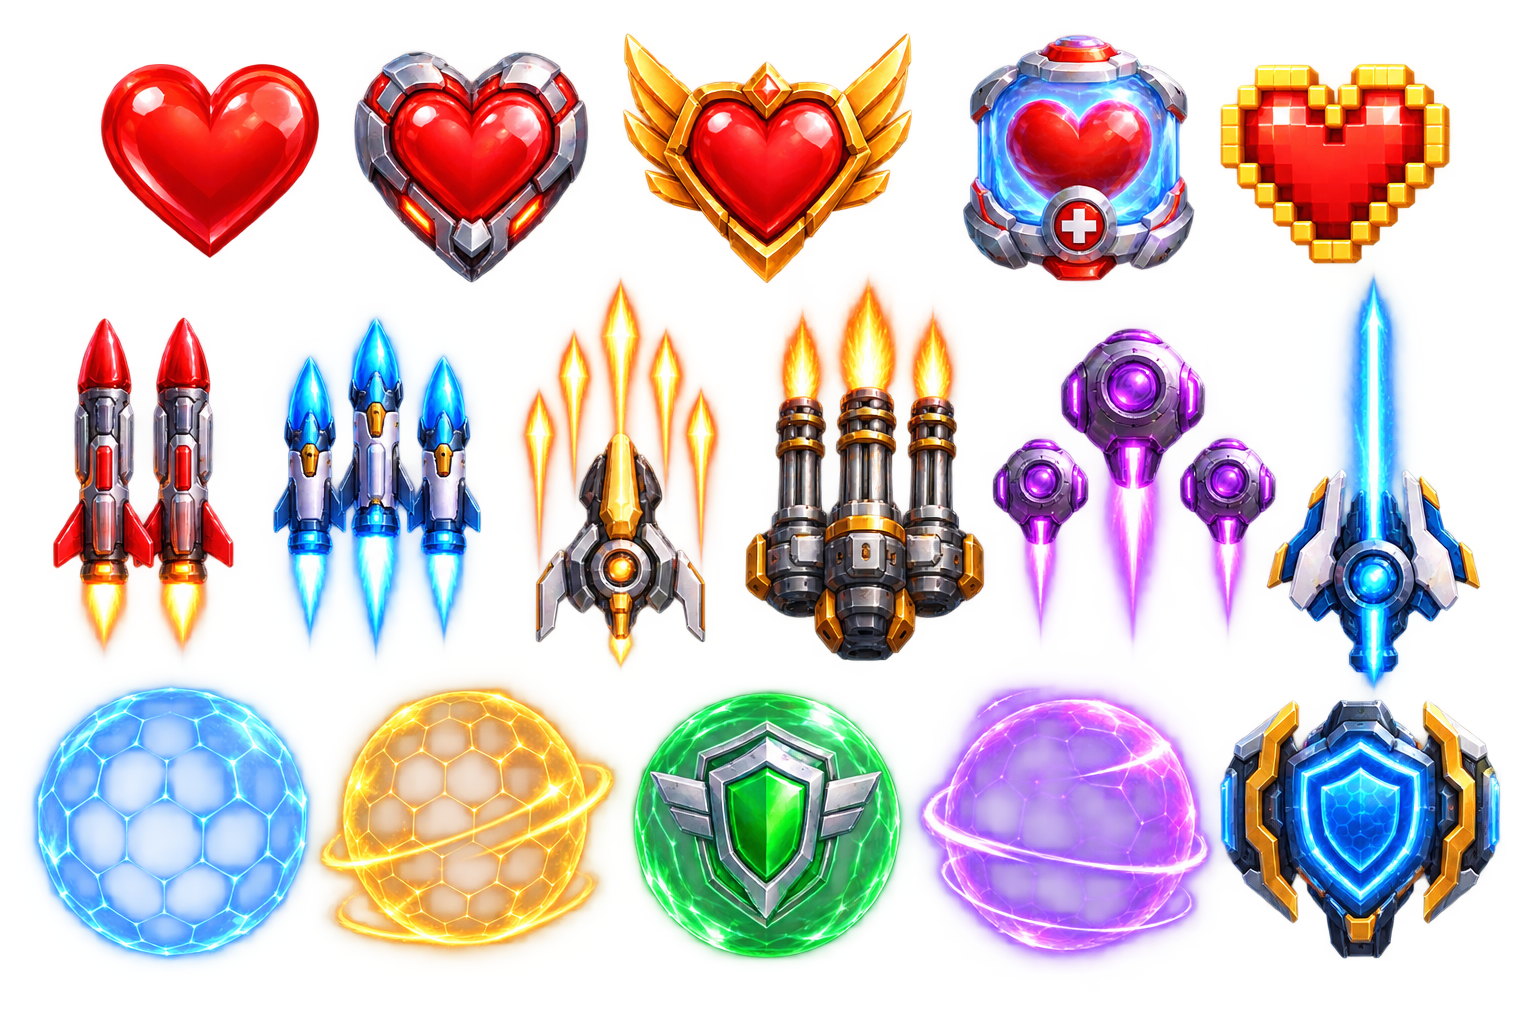
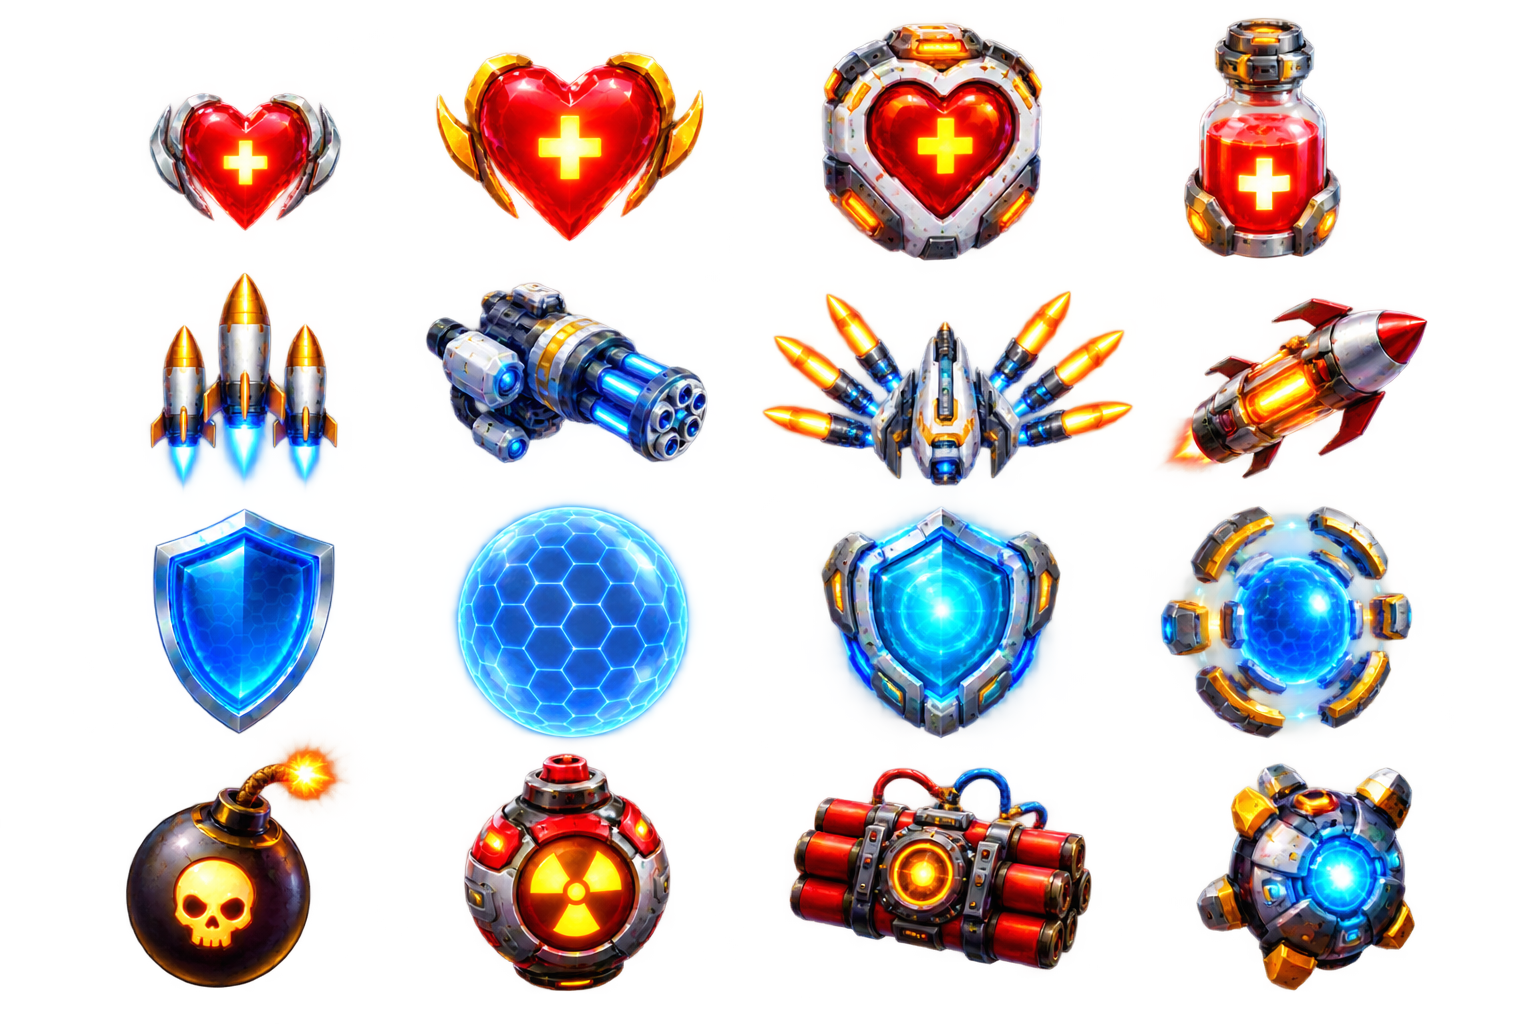
feat(space-fighter): replace combat and loot sprites

diff --git a/space-fighter/index.html b/space-fighter/index.html
@@ -6,7 +6,7 @@
 <meta name="theme-color" content="#04060f">
 <title>太空战机 · Space Fighter</title>
 <link rel="icon" href="data:,">
-<link rel="stylesheet" href="css/style.css?v=2.6">
+<link rel="stylesheet" href="css/style.css?v=2.8">
 </head>
 <body>
 <div id="stage">
@@ -116,12 +116,12 @@
   <!-- 移动端炸弹按钮 -->
   <button id="btn-bomb" class="hidden">💣</button>
 </div>
-<script src="js/input.js?v=2.6"></script>
-<script src="js/audio.js?v=2.6"></script>
-<script src="js/entities.js?v=2.6"></script>
-<script src="js/progression.js?v=2.6"></script>
-<script src="js/events.js?v=2.6"></script>
-<script src="js/render.js?v=2.6"></script>
-<script src="js/game.js?v=2.6"></script>
+<script src="js/input.js?v=2.8"></script>
+<script src="js/audio.js?v=2.8"></script>
+<script src="js/entities.js?v=2.8"></script>
+<script src="js/progression.js?v=2.8"></script>
+<script src="js/events.js?v=2.8"></script>
+<script src="js/render.js?v=2.8"></script>
+<script src="js/game.js?v=2.8"></script>
 </body>
 </html>

diff --git a/space-fighter/js/render.js b/space-fighter/js/render.js
@@ -4,15 +4,16 @@
  */
 
 var spriteSheet = new Image();
-spriteSheet.src = 'asset_2olOMyCNYNfeJq2s.png';
+spriteSheet.src = encodeURI('武器怪兽素材.png');
 
 var lootSheet = new Image();
 lootSheet.src = encodeURI('掉落物素材.png');
 var LOOT_SPRITES = {
-  // 素材图为 5 列 × 3 行，分别取心形、蓝色武器和蓝色护盾图标。
-  H: { x: 18, y: 16, w: 270, h: 270 },
-  P: { x: 306, y: 300, w: 305, h: 330 },
-  S: { x: 1220, y: 680, w: 300, h: 310 }
+  // 仅使用素材图最左列，从上到下依次为红心、武器、护盾和炸弹。
+  H: { x: 125, y: 15, w: 250, h: 250 },
+  P: { x: 125, y: 255, w: 250, h: 250 },
+  S: { x: 120, y: 505, w: 250, h: 250 },
+  B: { x: 120, y: 760, w: 250, h: 264 }
 };
 
 var SPRITES = {

diff --git a/space-fighter/CHANGELOG.md b/space-fighter/CHANGELOG.md
@@ -11,7 +11,7 @@
 
 ### 掉落物视觉
 
-- 使用 `掉落物素材.png` 渲染加血、护盾和武器升级掉落物；原有拾取效果与碰撞逻辑保持不变
+- 使用 `掉落物素材.png` 最左列依次渲染红心、武器、护盾和炸弹掉落物；原有拾取效果与碰撞逻辑保持不变
 
 ### 小游戏调整
 
@@ -37,7 +37,7 @@
 
 ### 视觉更新
 
-- 玩家战机、普通怪兽、BOSS 与双方武器弹体改用 `asset_2olOMyCNYNfeJq2s.png` 中的贴图渲染
+- 玩家战机、普通怪兽、BOSS 与双方武器弹体改用 `武器怪兽素材.png` 中的贴图渲染
 - 10 阶玩家武器分别映射独立弹体贴图，并按实际飞行方向旋转
 
 ### 修复
